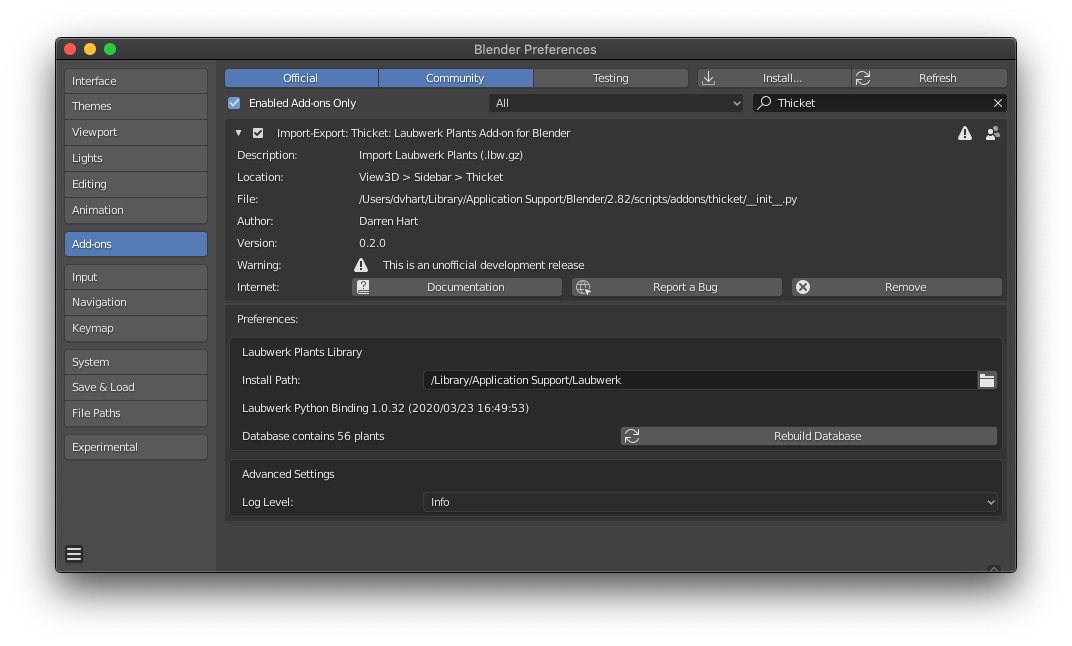
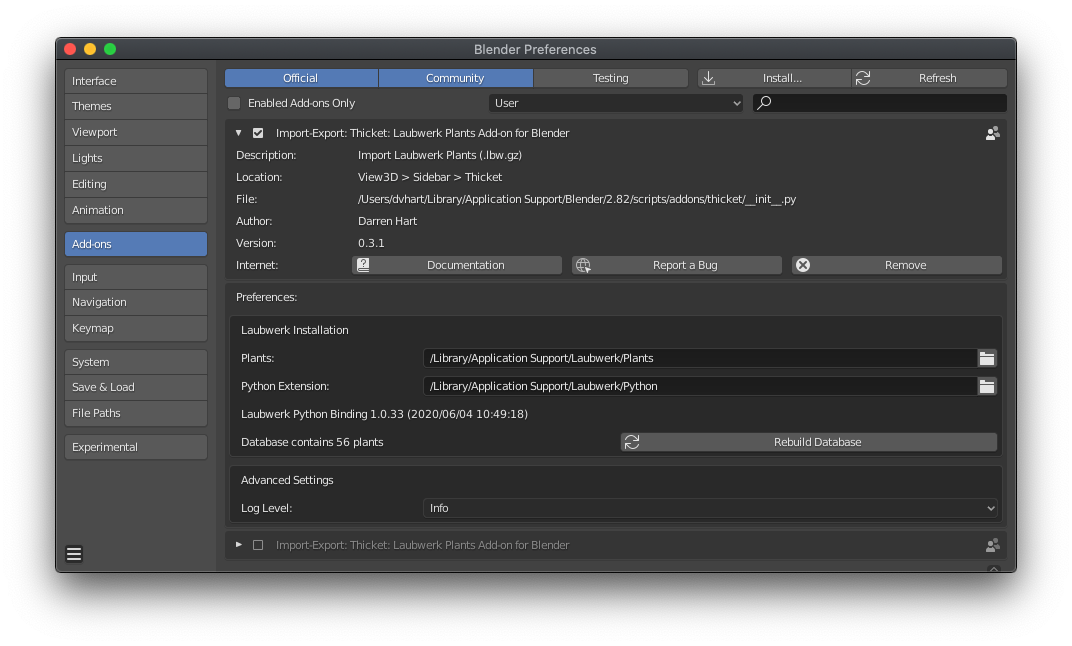
Update README with new preferences paths options
Update the text description of the installation paths as well as the
screenshot to represent the separate Plants and Python Extension as well
as the built-in default paths per platform.

diff --git a/README.md b/README.md
@@ -48,8 +48,7 @@ Thicket provides a visual plant selection gallery and options to configure the p
   * Check the box to enable the row `Import-Export: Thicket: Laubwerk Plants Add-on for Blender`
     * If you have more than one version installed, be sure to only enable one at a time
   * Click the arrow to expand the add-on preferences
-  * Enter the Laubwerk install path. The box will be red until a valid path is
-    entered, then the Laubwerk SDK version will be displayed below the path.
+  * Enter the Laubwerk Plants and Python Extension installation paths (these will be pre-populated with the platform defaults). The boxes will be red until valid paths are entered, then the Laubwerk SDK version will be displayed below.
   * Click `Rebuild Database`. This will take a few minutes depending on your computer and the number of Laubwerk Plants Kits installed.
   * When it completes, the number of plants in the database is displayed
 * Thicket is now ready to use (see Usage)
